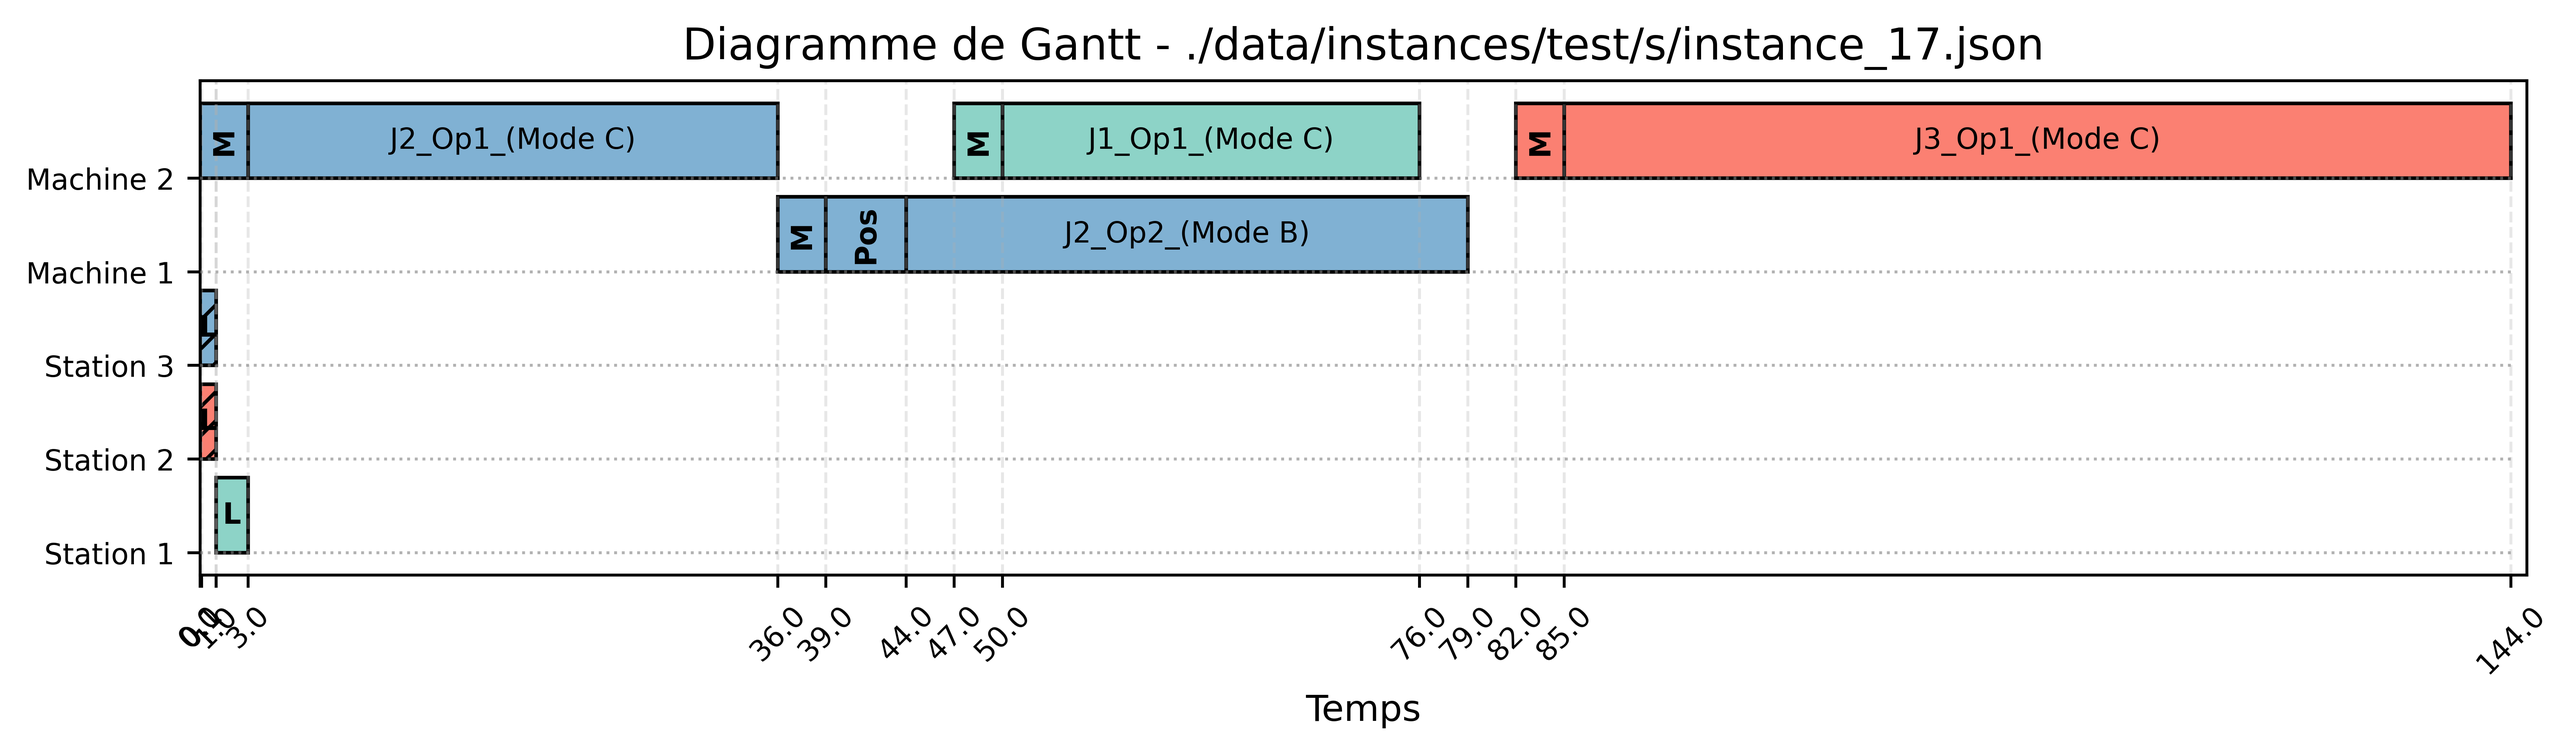
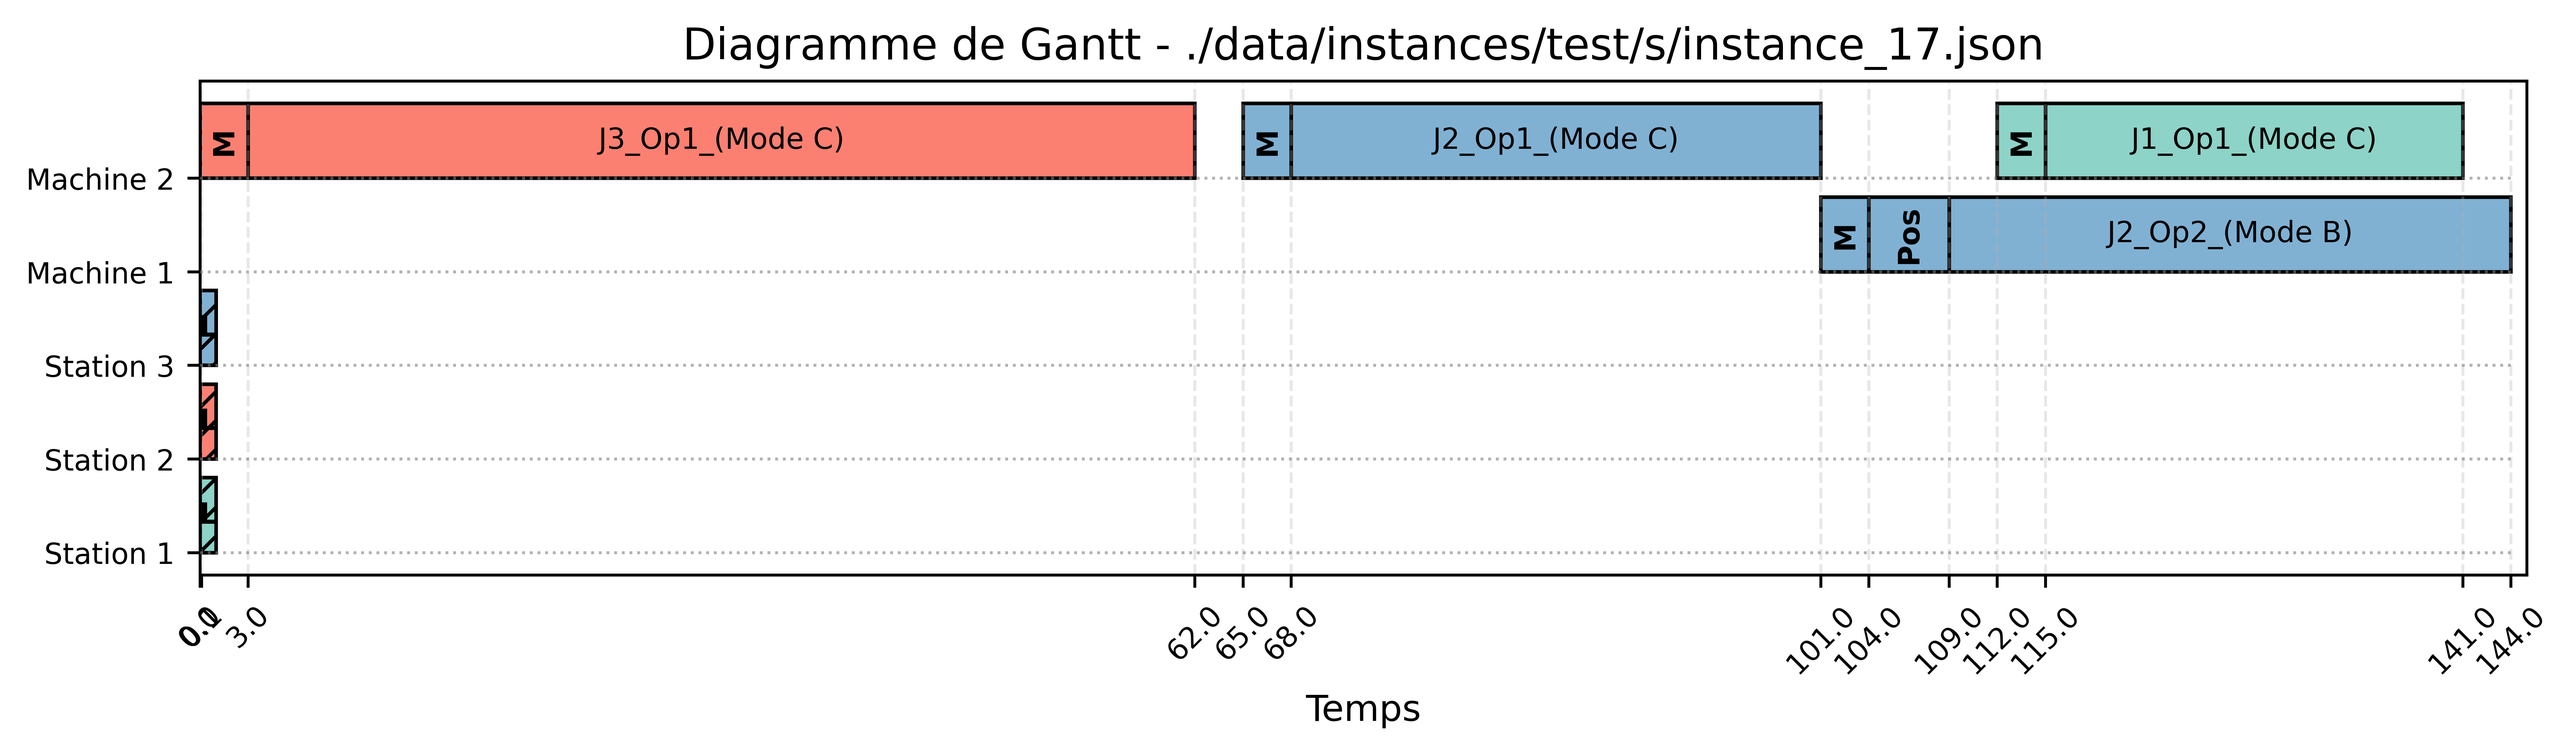
new s instances result with 8 neg values in heuristic deviation Obj

diff --git a/data/results/detailed_results_s.tex b/data/results/detailed_results_s.tex
@@ -9,7 +9,7 @@ Instance ID & Status & Obj & CT & Cmax & Delay & Gap & CT & Dev_Cmax & Dev_Delay
 3 & optimal & 246.000 & 0.152 & 189.000 & 57.000 & 0.000 & 0.000 & 0.206 & 0.105 & 0.183 & 0.013 & 0.386 & 1.561 & 0.659 & 0.013 & 0.386 & 1.561 & 0.659 \\
 4 & optimal & 178.000 & 0.134 & 149.000 & 29.000 & 0.000 & 0.000 & 0.242 & -0.069 & 0.191 & 0.014 & 0.557 & 6.414 & 1.511 & 0.014 & 0.523 & 6.069 & 1.427 \\
 5 & optimal & 335.000 & 0.186 & 196.000 & 139.000 & 0.000 & 0.000 & 0.071 & 0.101 & 0.084 & 0.013 & 0.352 & 1.072 & 0.651 & 0.013 & 0.301 & 0.928 & 0.561 \\
-6 & optimal & 532.000 & 0.194 & 248.000 & 284.000 & 0.000 & 0.000 & -0.028 & -0.074 & -0.053 & 0.016 & 0.278 & 0.331 & 0.306 & 0.016 & 0.157 & 0.250 & 0.207 \\
+6 & optimal & 532.000 & 0.194 & 248.000 & 284.000 & 0.000 & 0.001 & -0.028 & -0.074 & -0.053 & 0.016 & 0.278 & 0.331 & 0.306 & 0.016 & 0.157 & 0.250 & 0.207 \\
 7 & optimal & 488.000 & 0.287 & 261.000 & 227.000 & 0.000 & 0.000 & 0.318 & 0.652 & 0.473 & 0.014 & 0.303 & 0.612 & 0.447 & 0.015 & 0.303 & 0.612 & 0.447 \\
 8 & optimal & 568.000 & 0.399 & 267.000 & 301.000 & 0.000 & 0.000 & 0.176 & 0.319 & 0.252 & 0.018 & 0.210 & 0.173 & 0.190 & 0.017 & 0.191 & 0.140 & 0.164 \\
 9 & optimal & 322.000 & 0.085 & 144.000 & 178.000 & 0.000 & 0.000 & 0.486 & 0.657 & 0.581 & 0.008 & 0.486 & 0.421 & 0.450 & 0.008 & 0.375 & 0.275 & 0.320 \\
@@ -18,9 +18,9 @@ Instance ID & Status & Obj & CT & Cmax & Delay & Gap & CT & Dev_Cmax & Dev_Delay
 12 & optimal & 273.000 & 0.077 & 147.000 & 126.000 & 0.000 & 0.000 & 0.041 & 0.802 & 0.392 & 0.007 & 0.122 & 0.278 & 0.194 & 0.008 & 0.041 & 0.087 & 0.062 \\
 13 & optimal & 459.000 & 0.608 & 257.000 & 202.000 & 0.000 & 0.000 & 0.187 & 0.579 & 0.359 & 0.017 & 0.191 & 0.926 & 0.514 & 0.018 & 0.171 & 0.876 & 0.481 \\
 14 & optimal & 281.000 & 0.165 & 207.000 & 74.000 & 0.000 & 0.000 & 0.246 & 0.716 & 0.370 & 0.032 & 0.227 & 0.811 & 0.381 & 0.017 & 0.227 & 0.811 & 0.381 \\
-15 & optimal & 269.000 & 0.087 & 183.000 & 86.000 & 0.000 & 0.000 & -0.016 & -0.035 & -0.022 & 0.009 & 0.005 & 0.605 & 0.197 & 0.008 & 0.005 & 0.605 & 0.197 \\
+15 & optimal & 269.000 & 0.087 & 183.000 & 86.000 & 0.000 & 0.001 & -0.016 & -0.035 & -0.022 & 0.009 & 0.005 & 0.605 & 0.197 & 0.008 & 0.005 & 0.605 & 0.197 \\
 16 & optimal & 480.000 & 0.205 & 239.000 & 241.000 & 0.000 & 0.000 & 0.201 & 1.212 & 0.708 & 0.012 & 0.126 & 0.531 & 0.329 & 0.014 & 0.126 & 0.531 & 0.329 \\
-17 & optimal & 257.000 & 0.082 & 152.000 & 105.000 & 0.000 & 0.000 & 0.158 & -0.267 & -0.016 & 0.008 & 0.158 & 0.086 & 0.128 & 0.008 & 0.000 & -0.029 & -0.012 \\
+17 & optimal & 252.000 & 0.052 & 152.000 & 100.000 & 0.000 & 0.001 & 0.158 & -0.230 & 0.004 & 0.008 & 0.158 & 0.140 & 0.151 & 0.008 & 0.000 & 0.020 & 0.008 \\
 18 & optimal & 440.000 & 0.577 & 235.000 & 205.000 & 0.000 & 0.000 & 0.132 & 0.902 & 0.491 & 0.017 & 0.153 & 0.337 & 0.239 & 0.018 & 0.132 & 0.288 & 0.205 \\
 19 & optimal & 469.000 & 0.468 & 218.000 & 251.000 & 0.000 & 0.000 & 0.211 & 0.303 & 0.260 & 0.015 & 0.431 & 1.012 & 0.742 & 0.016 & 0.408 & 0.952 & 0.699 \\
 20 & optimal & 803.000 & 0.912 & 346.000 & 457.000 & 0.000 & 0.000 & 0.408 & 0.475 & 0.446 & 0.022 & 0.422 & 0.681 & 0.569 & 0.023 & 0.408 & 0.648 & 0.544 \\
@@ -33,11 +33,11 @@ Instance ID & Status & Obj & CT & Cmax & Delay & Gap & CT & Dev_Cmax & Dev_Delay
 27 & optimal & 92.000 & 0.095 & 80.000 & 12.000 & 0.000 & 0.000 & 0.438 & 2.500 & 0.707 & 0.006 & 0.438 & 3.333 & 0.815 & 0.006 & 0.075 & 1.417 & 0.250 \\
 28 & optimal & 324.000 & 0.446 & 196.000 & 128.000 & 0.000 & 0.000 & 0.204 & 1.070 & 0.546 & 0.015 & 0.321 & 1.203 & 0.670 & 0.015 & 0.296 & 1.164 & 0.639 \\
 29 & optimal & 286.000 & 0.090 & 169.000 & 117.000 & 0.000 & 0.001 & 0.130 & 0.154 & 0.140 & 0.010 & 0.450 & 0.778 & 0.584 & 0.012 & 0.219 & 0.145 & 0.189 \\
-30 & optimal & 340.000 & 0.185 & 168.000 & 172.000 & 0.000 & 0.000 & -0.125 & -0.419 & -0.274 & 0.010 & 0.387 & 0.971 & 0.682 & 0.010 & 0.327 & 0.826 & 0.579 \\
+30 & optimal & 340.000 & 0.185 & 168.000 & 172.000 & 0.000 & 0.001 & -0.101 & -0.395 & -0.250 & 0.010 & 0.387 & 0.971 & 0.682 & 0.010 & 0.327 & 0.826 & 0.579 \\
 31 & optimal & 486.000 & 0.266 & 232.000 & 254.000 & 0.000 & 0.000 & 0.259 & 0.563 & 0.418 & 0.014 & 0.297 & 0.449 & 0.377 & 0.014 & 0.276 & 0.390 & 0.335 \\
 32 & optimal & 318.000 & 0.278 & 215.000 & 103.000 & 0.000 & 0.000 & 0.107 & 0.252 & 0.154 & 0.023 & 0.260 & 2.757 & 1.069 & 0.015 & 0.056 & 2.000 & 0.686 \\
 33 & optimal & 237.000 & 0.091 & 158.000 & 79.000 & 0.000 & 0.000 & -0.044 & -0.177 & -0.089 & 0.009 & 0.190 & 0.608 & 0.329 & 0.008 & -0.019 & 0.190 & 0.051 \\
-34 & optimal & 272.000 & 0.120 & 169.000 & 103.000 & 0.000 & 0.000 & -0.142 & -0.466 & -0.265 & 0.011 & 0.385 & 0.515 & 0.434 & 0.011 & 0.385 & 0.515 & 0.434 \\
+34 & optimal & 272.000 & 0.120 & 169.000 & 103.000 & 0.000 & 0.001 & -0.142 & -0.466 & -0.265 & 0.011 & 0.385 & 0.515 & 0.434 & 0.011 & 0.385 & 0.515 & 0.434 \\
 35 & optimal & 476.000 & 0.226 & 269.000 & 207.000 & 0.000 & 0.000 & 0.186 & 0.469 & 0.309 & 0.013 & 0.190 & 0.333 & 0.252 & 0.013 & 0.171 & 0.309 & 0.231 \\
 36 & optimal & 289.000 & 0.171 & 195.000 & 94.000 & 0.000 & 0.000 & 0.062 & 0.181 & 0.100 & 0.018 & 0.082 & 0.372 & 0.176 & 0.011 & 0.082 & 0.372 & 0.176 \\
 37 & optimal & 183.000 & 0.116 & 132.000 & 51.000 & 0.000 & 0.000 & 0.098 & -0.039 & 0.060 & 0.007 & 0.129 & 0.275 & 0.169 & 0.007 & 0.129 & 0.275 & 0.169 \\
@@ -47,12 +47,12 @@ Instance ID & Status & Obj & CT & Cmax & Delay & Gap & CT & Dev_Cmax & Dev_Delay
 41 & optimal & 424.000 & 0.509 & 255.000 & 169.000 & 0.000 & 0.000 & 0.173 & 0.065 & 0.130 & 0.015 & 0.173 & 0.065 & 0.130 & 0.014 & 0.173 & 0.065 & 0.130 \\
 42 & optimal & 373.000 & 0.592 & 241.000 & 132.000 & 0.000 & 0.000 & 0.050 & 0.152 & 0.086 & 0.016 & 0.137 & 1.242 & 0.528 & 0.015 & 0.116 & 1.167 & 0.488 \\
 43 & optimal & 399.000 & 0.259 & 201.000 & 198.000 & 0.000 & 0.000 & 0.338 & 0.298 & 0.318 & 0.018 & 0.343 & 0.374 & 0.358 & 0.017 & 0.318 & 0.323 & 0.321 \\
-44 & optimal & 249.000 & 0.114 & 157.000 & 92.000 & 0.000 & 0.000 & -0.051 & -0.141 & -0.084 & 0.011 & 0.127 & 0.467 & 0.253 & 0.011 & 0.127 & 0.467 & 0.253 \\
+44 & optimal & 249.000 & 0.114 & 157.000 & 92.000 & 0.000 & 0.001 & -0.051 & -0.141 & -0.084 & 0.011 & 0.127 & 0.467 & 0.253 & 0.011 & 0.127 & 0.467 & 0.253 \\
 45 & optimal & 406.000 & 0.529 & 207.000 & 199.000 & 0.000 & 0.000 & 0.019 & 0.035 & 0.027 & 0.019 & 0.338 & 0.759 & 0.544 & 0.018 & 0.232 & 0.402 & 0.315 \\
 46 & optimal & 232.000 & 0.077 & 126.000 & 106.000 & 0.000 & 0.000 & 0.460 & 1.075 & 0.741 & 0.008 & 0.460 & 0.377 & 0.422 & 0.009 & 0.270 & -0.009 & 0.142 \\
 47 & optimal & 301.000 & 0.075 & 186.000 & 115.000 & 0.000 & 0.000 & -0.016 & 0.687 & 0.252 & 0.010 & -0.016 & 0.026 & 0.000 & 0.009 & -0.016 & 0.026 & 0.000 \\
 48 & optimal & 265.000 & 0.205 & 178.000 & 87.000 & 0.000 & 0.049 & 0.169 & 0.161 & 0.166 & 0.015 & 0.433 & 1.724 & 0.857 & 0.016 & 0.376 & 1.437 & 0.725 \\
 49 & optimal & 545.000 & 0.407 & 287.000 & 258.000 & 0.000 & 0.000 & -0.028 & 0.035 & 0.002 & 0.019 & 0.049 & 0.318 & 0.176 & 0.019 & 0.049 & 0.318 & 0.176 \\
-50 & optimal & 130.000 & 0.118 & 130.000 & 0.000 & 0.000 & 0.000 & -0.015 & NaN & -0.015 & 0.011 & 0.015 & inf & 0.454 & 0.012 & 0.015 & inf & 0.454 \\
+50 & optimal & 130.000 & 0.118 & 130.000 & 0.000 & 0.000 & 0.001 & -0.015 & NaN & -0.015 & 0.011 & 0.015 & inf & 0.454 & 0.012 & 0.015 & inf & 0.454 \\
 \bottomrule
 \end{tabular}

diff --git a/cp_solver.py b/cp_solver.py
@@ -68,7 +68,7 @@ def C4(model: cp_model.CpModel, i: MathInstance):
                 for o_prime in i.loop_operations(j_prime):
                     if not is_same(j, j_prime, o, o_prime):
                         model.Add(1 == i.s.exe_before[j][j_prime][o][o_prime] + i.s.exe_before[j_prime][j][o_prime][o])
-    return model, i.s6
+    return model, i.s
 
 # An operation o starts after the end of the previous one o-1 of the same job (plus 1 to 4 robot moves in case of parallel)
 # Part 1/2
@@ -341,7 +341,7 @@ def solver_per_file(gantt_path: str, path: str, id: str, debug: bool=False):
         no_results = pd.DataFrame({'id': [id], 'status': ['infeasible'], 'obj': [-1], 'delay': [-1], 'cmax': [-1], 'computing_time': [computing_time], 'gap': [-1]})
         no_results.to_csv(path+"/exact_solution_"+id+".csv", index=False)
 
-# TEST WITH: python cp_solver.py --type=train --size=s --id=1 --path=./
+# TEST WITH: python cp_solver.py --type=test --size=s --id=1 --path=./
 if __name__ == "__main__":
     parser  = argparse.ArgumentParser(description="Exact solver (CP OR-tools version)")
     parser.add_argument("--path", help="path to load the instances", required=True)

diff --git a/data/results/table_delay_aggregated.tex b/data/results/table_delay_aggregated.tex
@@ -2,9 +2,9 @@
 \toprule
 Méthode & s_min & s_avg & s_max & m_min & m_avg & m_max & l_min & l_avg & l_max & xl_min & xl_avg & xl_max \\
 \midrule
-exact & 0.00 & 150.58 & 457.00 & 247.00 & 821.48 & 1815.00 & 1952.00 & 3245.86 & 5594.00 & 9026.00 & 19593.68 & 35711.00 \\
+exact & 0.00 & 150.48 & 457.00 & 247.00 & 821.48 & 1815.00 & 1952.00 & 3245.86 & 5594.00 & 9026.00 & 19593.68 & 35711.00 \\
 gnn & 45.00 & 248.88 & 768.00 & 641.00 & 1448.10 & 2606.00 & 3591.00 & 5753.70 & 9034.00 & 16231.00 & 32848.84 & 66067.00 \\
-heuristic & 0.00 & 208.32 & 674.00 & 345.00 & 1301.40 & 2589.00 & 2705.00 & 5809.02 & 8817.00 & 14784.00 & 32536.38 & 62105.00 \\
+heuristic & 0.00 & 208.40 & 674.00 & 345.00 & 1301.40 & 2589.00 & 2705.00 & 5809.02 & 8817.00 & 14784.00 & 32536.38 & 62105.00 \\
 gnn + ls & 29.00 & 235.26 & 753.00 & 609.00 & 1350.60 & 2410.00 & 3456.00 & 5437.68 & 8792.00 & 15688.00 & 31069.40 & 62266.00 \\
 \bottomrule
 \end{tabular}
